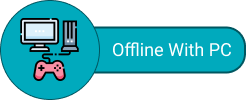
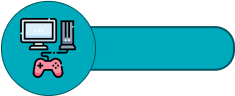
refactor UI screen

diff --git a/src/tictactoe/client/gameBoardWithComputer/gameBoardWithComputer.css b/src/tictactoe/client/gameBoardWithComputer/gameBoardWithComputer.css
@@ -1,5 +1,4 @@
 
-
 .mainFxmlClass {
     -fx-background-image: url("../../../media/images/mainBackground.png");
     -fx-background-size: 100%;
@@ -26,6 +25,11 @@
     -fx-border-radius: 20;
 }
 
+.bold-label{
+    
+    -fx-font-size: 16;
+    -fx-font-weight: bold;
+}
 .label-with-shadow {
     -fx-effect: dropshadow(gaussian, gray, 5, 0.0, 3, 3);
 }
@@ -38,4 +42,3 @@
     -fx-start-margin: 15;
     
 }
-

diff --git a/src/tictactoe/client/levels/LevelsUIController.java b/src/tictactoe/client/levels/LevelsUIController.java
@@ -1,8 +1,3 @@
-/*
- * To change this license header, choose License Headers in Project Properties.
- * To change this template file, choose Tools | Templates
- * and open the template in the editor.
- */
 package tictactoe.client.levels;
 
 import java.io.IOException;
@@ -17,10 +12,9 @@ import javafx.fxml.Initializable;
 import javafx.scene.Parent;
 import javafx.scene.Scene;
 import javafx.scene.control.Button;
-import javafx.scene.input.MouseEvent;
 import javafx.stage.Stage;
-import tictactoe.client.main_screen.FXMLMainScreenController;
-import tictactoe.client.gameBoard.GameBoardController;
+import tictactoe.client.mainScreen.FXMLMainScreenController;
+import tictactoe.client.gameBoardWithComputer.GameBoardWithComputerController;
  
 
 /**
@@ -66,7 +60,7 @@ public class LevelsUIController implements Initializable {
         System.out.println ("Selected diffculty :" + selectedDifficulty);
        
 
-        FXMLLoader loader = new FXMLLoader(getClass().getResource("/tictactoe/client/gameBoard/GameBoard.fxml"));
+        FXMLLoader loader = new FXMLLoader(getClass().getResource("/tictactoe/client/gameBoardWithComputer/GameBoardWithComputer.fxml"));
         loadFXMLFile(loader,event);
 
     }
@@ -79,7 +73,7 @@ public class LevelsUIController implements Initializable {
            selectedDifficulty="Medium";
            System.out.println ("Selected diffculty :" + selectedDifficulty);
            
-           FXMLLoader loader = new FXMLLoader(getClass().getResource("/tictactoe/client/gameBoard/GameBoard.fxml"));
+           FXMLLoader loader = new FXMLLoader(getClass().getResource("/tictactoe/client/gameBoardWithComputer/GameBoardWithComputer.fxml"));
            loadFXMLFile(loader,event);
 
     }
@@ -93,7 +87,7 @@ public class LevelsUIController implements Initializable {
         selectedDifficulty = "Easy";
         System.out.println("Selected difficulty: " + selectedDifficulty);
 
-        FXMLLoader loader = new FXMLLoader(getClass().getResource("/tictactoe/client/gameBoard/GameBoard.fxml"));
+        FXMLLoader loader = new FXMLLoader(getClass().getResource("/tictactoe/client/gameBoardWithComputer/GameBoardWithComputer.fxml"));
         loadFXMLFile(loader,event);
       
     }
@@ -113,7 +107,7 @@ public class LevelsUIController implements Initializable {
             Parent root = loader.load(); // Load the FXML file first
 
             // Now you can safely get the controller
-            GameBoardController controller = loader.getController();
+            GameBoardWithComputerController controller = loader.getController();
             controller.setDifficulty(selectedDifficulty);
 
             System.out.println("Start offline match vs. PC");

diff --git a/src/tictactoe/client/gameBoardWithComputer/GameBoardWithComputerController.java b/src/tictactoe/client/gameBoardWithComputer/GameBoardWithComputerController.java
@@ -1,4 +1,4 @@
-package tictactoe.client.gameBoard;
+package tictactoe.client.gameBoardWithComputer;
 
 import java.io.IOException;
 import java.net.URL;
@@ -22,23 +22,23 @@ import javafx.scene.control.Alert;
 import javafx.scene.control.Button;
 import javafx.scene.control.ButtonType;
 import javafx.scene.control.CheckBox;
+import javafx.scene.control.Label;
 import javafx.scene.image.ImageView;
 import javafx.stage.Stage;
-import tictactoe.client.animation.Animation;
-import tictactoe.client.main_screen.FXMLMainScreenController;
 import javafx.util.Duration;
 import tictactoe.client.animation.Animation;
-import tictactoe.client.main_screen.FXMLMainScreenController;
+import tictactoe.client.mainScreen.FXMLMainScreenController;
 import tictactoe.client.gameBoardWithFriend.GameBoardWithFriendController;
-import tictactoe.client.resultVideoScreen.ResultVideoScreenController;
 import tictactoe.client.RecScreen.RecScreenController;
 import tictactoe.client.resultVideoScreenwithPC.ResultVideoScreenWithPCController;
 import tictactoe.client.soundManager.SoundManager;
 
-public class GameBoardController implements Initializable {
+public class GameBoardWithComputerController implements Initializable {
 
     @FXML
     private ImageView logo;
+    @FXML
+    private Label playerLabel, computerLabel;
     @FXML
     private Button Btn11, Btn12, Btn13, Btn21, Btn22, Btn23, Btn31, Btn32, Btn33;
     @FXML
@@ -75,8 +75,10 @@ public class GameBoardController implements Initializable {
 
         isGameOver = false;
         isXTurn = true;
+        
+        playerLabel.getStyleClass().add("bold-label");
+        computerLabel.getStyleClass().add("bold-label");
 
-       // difficulty = "Medium"; // test
        handleCheckBox();
     }
     
@@ -354,7 +356,7 @@ public class GameBoardController implements Initializable {
 
             System.out.println("Back To Main Screen");
 
-            Parent root = FXMLLoader.load(getClass().getResource("/tictactoe/client/main_screen/FXMLMainScreen.fxml"));
+            Parent root = FXMLLoader.load(getClass().getResource("/tictactoe/client/mainScreen/FXMLMainScreen.fxml"));
             Scene scene = new Scene(root);
             Stage stage = (Stage) logo.getScene().getWindow();
             stage.setScene(scene);

diff --git a/src/tictactoe/client/gameBoardWithFriend/GameBoardWithFriendController.java b/src/tictactoe/client/gameBoardWithFriend/GameBoardWithFriendController.java
@@ -1,16 +1,11 @@
 package tictactoe.client.gameBoardWithFriend;
 
-import java.io.FileWriter;
 import java.io.IOException;
 import java.net.URL;
-import java.text.SimpleDateFormat;
-import java.util.Date;
 import java.util.Optional;
 import java.util.ResourceBundle;
-import java.util.concurrent.Delayed;
 import java.util.logging.Level;
 import java.util.logging.Logger;
-import javafx.animation.Interpolator;
 import javafx.animation.PauseTransition;
 import javafx.animation.ScaleTransition;
 import javafx.event.ActionEvent;
@@ -28,9 +23,8 @@ import javafx.util.Duration;
 import javafx.application.Platform;
 import javafx.scene.control.CheckBox;
 import javafx.scene.control.Label;
-import javafx.scene.control.TextField;
 import tictactoe.client.animation.Animation;
-import tictactoe.client.main_screen.FXMLMainScreenController;
+import tictactoe.client.mainScreen.FXMLMainScreenController;
 import tictactoe.client.resultVideoScreen.ResultVideoScreenController;
 import tictactoe.client.RecScreen.RecScreenController;
 import tictactoe.client.soundManager.SoundManager;
@@ -39,6 +33,9 @@ public class GameBoardWithFriendController implements Initializable {
 
     @FXML
     private ImageView logo;
+    
+    @FXML
+    private Label player1Label, player2Label;
 
     @FXML
     private Button Btn11, Btn12, Btn13, Btn21, Btn22, Btn23, Btn31, Btn32, Btn33;
@@ -82,6 +79,8 @@ public class GameBoardWithFriendController implements Initializable {
         recScreenController.initializeLogFile();
         
       
+        player1Label.getStyleClass().add("bold-label");
+        player2Label.getStyleClass().add("bold-label");
 
         updateScoreLabels();
         

diff --git a/src/tictactoe/client/TicTacToeClient.java b/src/tictactoe/client/TicTacToeClient.java
@@ -1,34 +1,21 @@
 package tictactoe.client;
 
-/*
- * To change this license header, choose License Headers in Project Properties.
- * To change this template file, choose Tools | Templates
- * and open the template in the editor.
- */
-import java.io.File;
 import java.io.IOException;
-import java.util.logging.Level;
-import java.util.logging.Logger;
 import javafx.application.Application;
 import javafx.fxml.FXMLLoader;
 import javafx.scene.Parent;
 import javafx.scene.Scene;
-import javafx.stage.FileChooser;
 import javafx.stage.Stage;
 import tictactoe.client.server_connection.Request;
-import tictactoe.client.server_ip.ServerIP;
 import tictactoe.client.session_data.SessionData;
 import tictactoe.client.soundManager.SoundManager;
 
-/**
- *
- * @author musta
- */
+
 public class TicTacToeClient extends Application {
 
     @Override
     public void start(Stage stage) throws Exception {
-        Parent root = FXMLLoader.load(getClass().getResource("splash_screen/FXMLSplashScreen.fxml"));
+        Parent root = FXMLLoader.load(getClass().getResource("splashScreen/FXMLSplashScreen.fxml"));
 
         Scene scene = new Scene(root);
 
@@ -47,7 +34,7 @@ public class TicTacToeClient extends Application {
             }
             Request.getInstance().disconnectToServer();
         } catch (IOException ex) {
-            System.out.println("server is dowen");
+            System.out.println("server is down");
         }
         SoundManager.stopBackgroundMusic();
     }

diff --git a/src/tictactoe/client/resultVideoScreenwithPC/ResultVideoScreenWithPCController.java b/src/tictactoe/client/resultVideoScreenwithPC/ResultVideoScreenWithPCController.java
@@ -1,8 +1,3 @@
-/*
- * To change this license header, choose License Headers in Project Properties.
- * To change this template file, choose Tools | Templates
- * and open the template in the editor.
- */
 package tictactoe.client.resultVideoScreenwithPC;
 
 import java.io.IOException;
@@ -27,13 +22,9 @@ import javafx.scene.media.MediaView;
 import javafx.stage.Stage;
 import javafx.util.Duration;
 import tictactoe.client.animation.Animation;
-import tictactoe.client.main_screen.FXMLMainScreenController;
+import tictactoe.client.mainScreen.FXMLMainScreenController;
 import tictactoe.client.soundManager.SoundManager;
 
-/**
- *
- * @author ayaah
- */
 public class ResultVideoScreenWithPCController implements Initializable {
 
    @FXML
@@ -157,7 +148,7 @@ public class ResultVideoScreenWithPCController implements Initializable {
             
             mediaPlayer.stop();
 
-            Parent root = FXMLLoader.load(getClass().getResource("/tictactoe/client/main_screen/FXMLMainScreen.fxml"));
+            Parent root = FXMLLoader.load(getClass().getResource("/tictactoe/client/mainScreen/FXMLMainScreen.fxml"));
             Scene scene = new Scene(root);
             Stage stage = (Stage) logo.getScene().getWindow();
             stage.setScene(scene);

diff --git a/src/tictactoe/client/splashScreen/FXMLSplashScreenController.java b/src/tictactoe/client/splashScreen/FXMLSplashScreenController.java
@@ -1,4 +1,4 @@
-package tictactoe.client.splash_screen;
+package tictactoe.client.splashScreen;
 
 import java.io.IOException;
 import java.net.URL;
@@ -13,7 +13,6 @@ import javafx.scene.Scene;
 import javafx.scene.image.ImageView;
 import javafx.scene.layout.AnchorPane;
 import javafx.stage.Stage;
-import tictactoe.client.soundManager.SoundManager;
 import tictactoe.client.animation.Animation;
 
 public class FXMLSplashScreenController implements Initializable {
@@ -26,7 +25,7 @@ public class FXMLSplashScreenController implements Initializable {
         //animate logo for 3 times
         Animation.scaleAnimation(logo, 3, 1.75).setOnFinished((ActionEvent event) -> {
             try {
-                AnchorPane root = FXMLLoader.load(getClass().getResource("/tictactoe/client/main_screen/FXMLMainScreen.fxml"));
+                AnchorPane root = FXMLLoader.load(getClass().getResource("/tictactoe/client/mainScreen/FXMLMainScreen.fxml"));
                 Scene scene = new Scene(root);
 
                 Stage stage = (Stage) logo.getScene().getWindow();

diff --git a/src/tictactoe/client/resultVideoScreen/ResultVideoScreenController.java b/src/tictactoe/client/resultVideoScreen/ResultVideoScreenController.java
@@ -30,7 +30,7 @@ import javafx.scene.media.MediaView;
 import javafx.stage.Stage;
 import javafx.util.Duration;
 import tictactoe.client.gameBoardWithFriend.GameBoardWithFriendController;
-import tictactoe.client.main_screen.FXMLMainScreenController;
+import tictactoe.client.mainScreen.FXMLMainScreenController;
 import tictactoe.client.soundManager.SoundManager;
 
 /**
@@ -177,7 +177,7 @@ public class ResultVideoScreenController implements Initializable {
             
             mediaPlayer.stop();
 
-            Parent root = FXMLLoader.load(getClass().getResource("/tictactoe/client/main_screen/FXMLMainScreen.fxml"));
+            Parent root = FXMLLoader.load(getClass().getResource("/tictactoe/client/mainScreen/FXMLMainScreen.fxml"));
             Scene scene = new Scene(root);
             Stage stage = (Stage) logo.getScene().getWindow();
             stage.setScene(scene);

diff --git a/src/tictactoe/client/register/FXMLRegisterationScreenController.java b/src/tictactoe/client/register/FXMLRegisterationScreenController.java
@@ -33,7 +33,7 @@ import tictactoe.client.scene_navigation.SceneNavigation;
 import tictactoe.client.session_data.SessionData;
 import tictactoe.client.animation.Animation;
 import tictactoe.client.login.FXMLLoginController;
-import tictactoe.client.main_screen.FXMLMainScreenController;
+import tictactoe.client.mainScreen.FXMLMainScreenController;
 import tictactoe.client.server_connection.Request;
 import tictactoe.client.server_ip.ServerIP;
 import tictactoe.client.soundManager.SoundManager;

diff --git a/src/tictactoe/client/online_video_screen/OnlineVideoScreenController.java b/src/tictactoe/client/online_video_screen/OnlineVideoScreenController.java
@@ -25,7 +25,7 @@ import javafx.scene.media.MediaView;
 import javafx.util.Duration;
 import tictactoe.client.animation.Animation;
 import tictactoe.client.gameBoardWithFriend.GameBoardWithFriendController;
-import tictactoe.client.main_screen.FXMLMainScreenController;
+import tictactoe.client.mainScreen.FXMLMainScreenController;
 import tictactoe.client.scene_navigation.SceneNavigation;
 import tictactoe.client.server_connection.Request;
 import tictactoe.client.session_data.SessionData;
